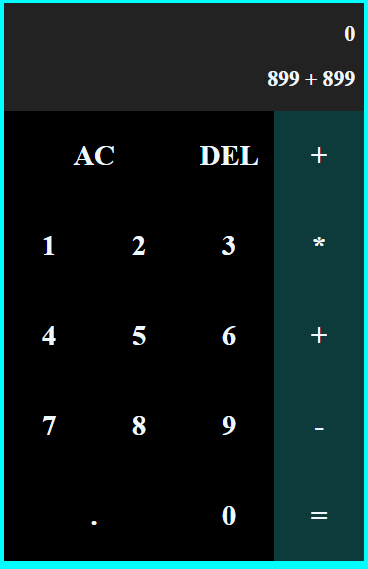
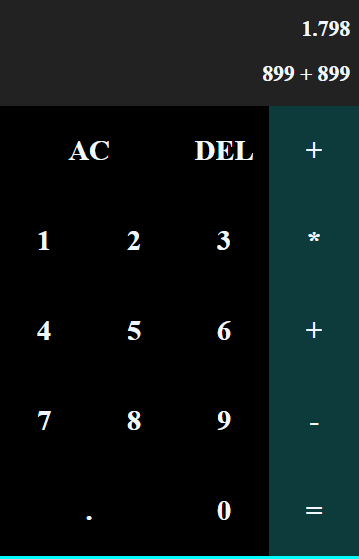
screen

diff --git a/index.html b/index.html
@@ -12,7 +12,7 @@
     <div class="grid-container">
 
         <div class="output">
-            <div data-previous-operand class="previous-operand">0</div>     
+            <div data-previous-operand class="previous-operand">1.798</div>     
             <div data-currend-operand class="current-operand">899 + 899</div>
         </div>
         <button data-clean class=" span-two" >ac</button>
